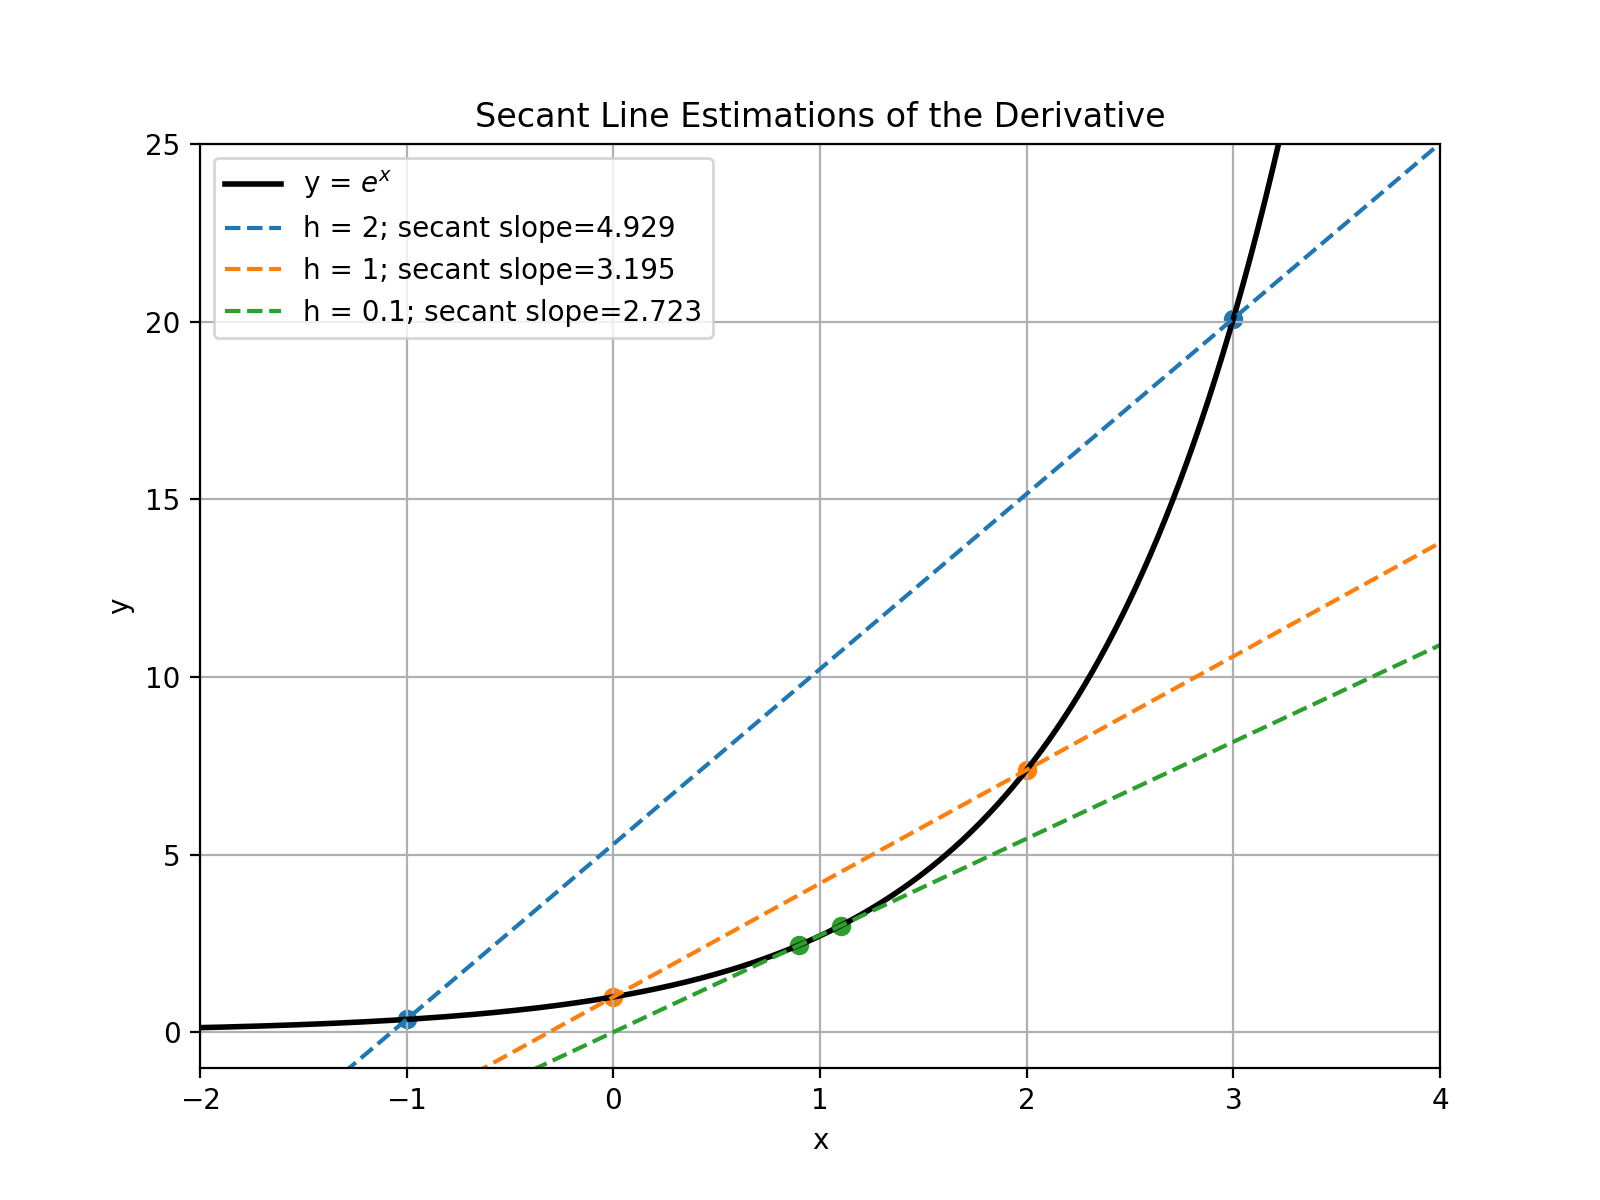
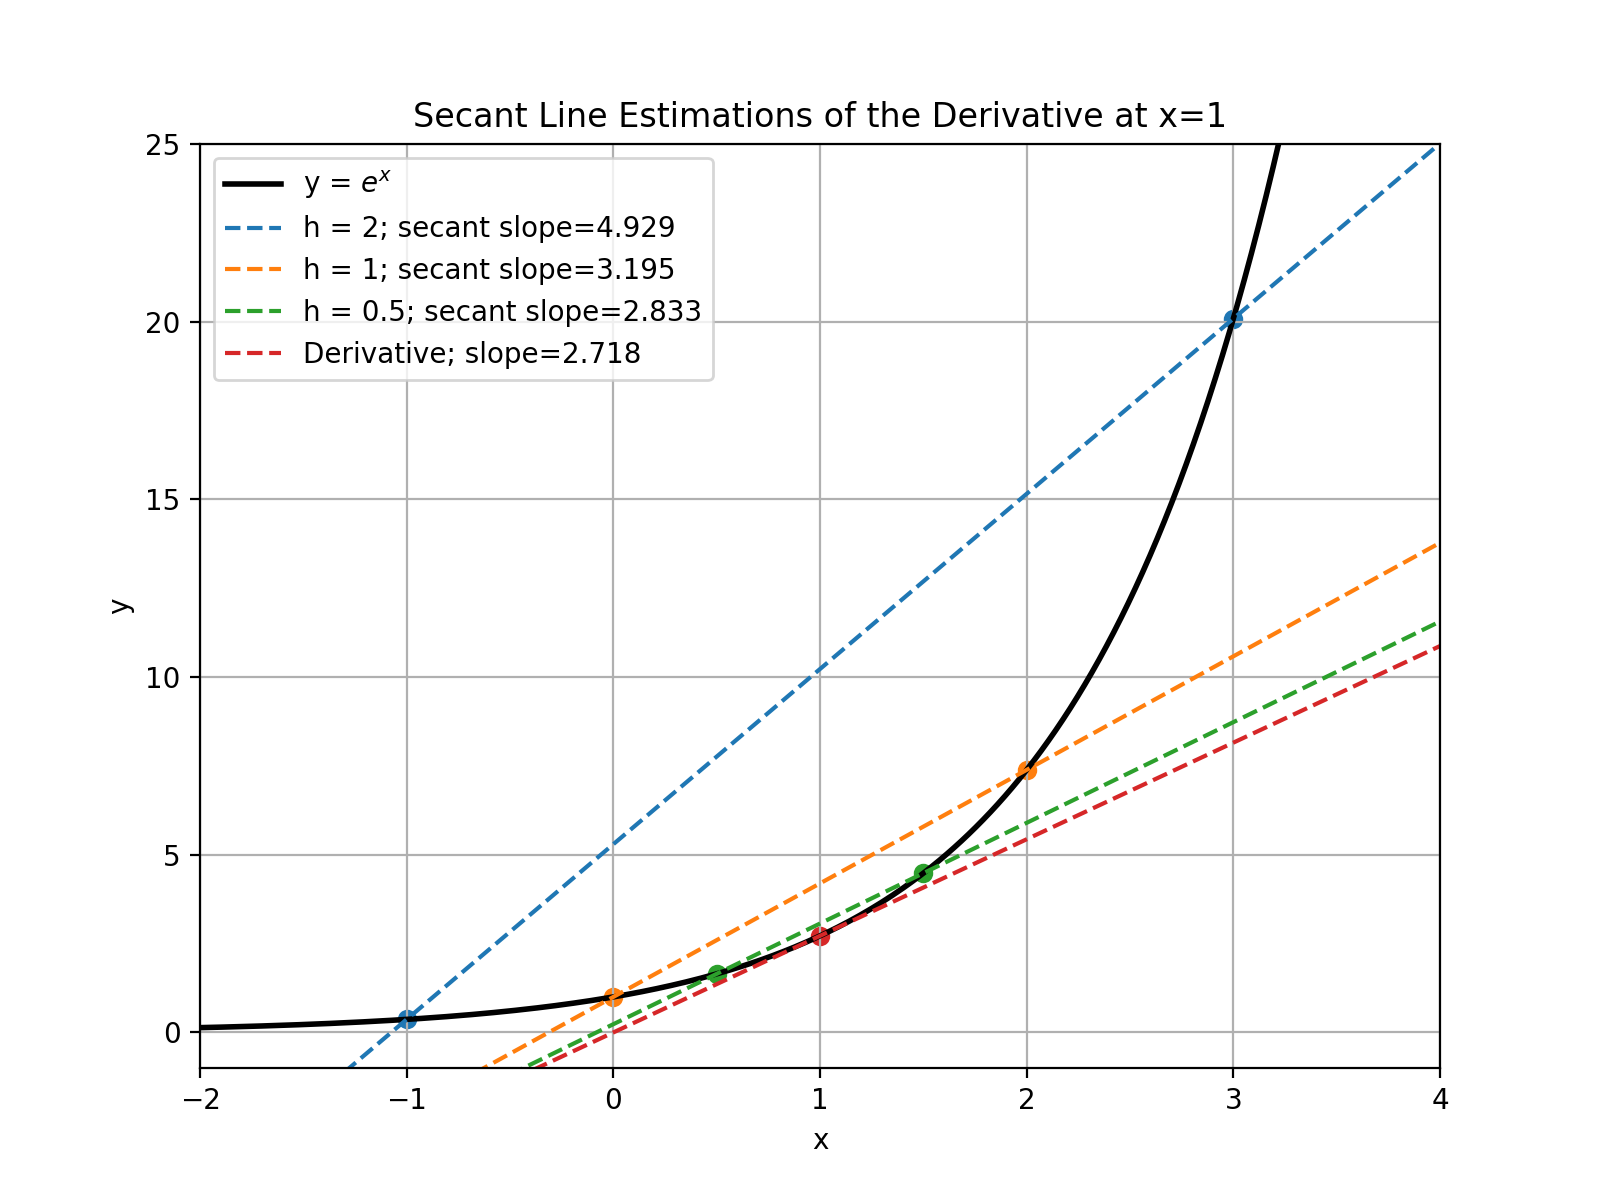
Finite difference, MC

diff --git a/projects/Biophysics-Book/Finite-Difference.html b/projects/Biophysics-Book/Finite-Difference.html
@@ -63,6 +63,9 @@
             <div id="Finite Difference">
                 <h1>Finite Difference Method</h1>
                 <h2>Introduction</h2>
+                In practice, many PDEs do not have closed-form solutions. Finite difference methods (FDM) are numerical techniques used to approximate the solutions of partial differential equations (PDEs). By discretizing the domain into a finite number of grid points, FDM translates continuous PDEs into a system of algebraic equations. 
+                
+
 
 
                 <h2>Basics of Finite Difference</h2>
@@ -72,8 +75,19 @@
 
                 </ol>
 
-                <h3>Basic Example</h3>
-                
+                <h3>Difference Quotients</h3>
+                <h4>Forward Difference</h4>
+                $$\frac{f(x+h)-f(x)}{h}$$
+
+                <h4>Backward Difference</h4>
+                $$\frac{f(x)-f(x-h)}{h}$$
+
+                <h4>Central Difference</h4>
+                $$\frac{f(x+h)-f(x-h)}{2h}$$
+
+
+                <h4>Taking A Secant Line Closer (Central Difference)</h4>
+                Smaller values of \(\Delta x\) make for better approximations, but stability conditions must be paid attention to.
                 <img src="Secant-Lines.png" alt="Monte Carlo Pi Calculation Animation" style="margin:auto; display: block;  width:clamp(400px,50vw, 800px)"/>
                 <button type="button" class="collapsible">Python Code</button>
                 <div class="content">
@@ -94,7 +108,7 @@ def extended_secant_line(x1, x2, X):
     return slope * X + y_intercept
 
 x = 1
-h_values = [2,1, 0.1]
+h_values = [2,1, 0.5]
 
 X = np.linspace(-3, 4, 400)
 Y = f(X)
@@ -105,10 +119,13 @@ colors = plt.colormaps['tab10'].colors
 for i,h in enumerate(h_values):
     x2 = x + h
     x1 = x - h
-    plt.plot(X, extended_secant_line(x1, x2, X), label=f"h = {h}; secant slope={slope_of_secant(x1, x2)}", linestyle="--",color=colors[i])
+    plt.plot(X, extended_secant_line(x1, x2, X), label=f"h = {h}; secant slope={slope_of_secant(x1, x2):.3f}", linestyle="--",color=colors[i])
     plt.scatter([x1, x2], [f(x1), f(x2)], color=colors[i])
 
-plt.title("Secant Line Estimations of the Derivative")
+plt.plot(X, np.exp(1)*X+f(1) - np.exp(1) * 1, label=f"Derivative; slope={np.exp(1):.3f}", linestyle="--",color=colors[3])  
+plt.scatter([1], [f(1)], color=colors[3])
+    
+plt.title("Secant Line Estimations of the Derivative at x=1")
 plt.xlabel('x')
 plt.ylabel('y')
 plt.legend()
@@ -116,9 +133,37 @@ plt.grid(True)
 plt.xlim(-2, 4)
 plt.ylim(-1, 25)
 plt.show()
-                     
+                             
 </pre>
                 </code></div>
+                
+                <h4>Second Deriatives</h4>
+                In order to get a second deriative of a function, one takes the derivative of the derivative. 
+                The same logic applies for finite differences - take the finite difference of finite differences. 
+                <br>
+                Let us consider taking spacial derivative via forward differences for simplicity.
+                
+                $$f'(x)\approx \frac{f(x+\Delta x)-f(x)}{\Delta x}$$
+
+                $$f''(x)\approx\frac{f'(x+h)-f'(x)}{h}$$
+
+                Combining the two formulae, we get:
+
+                $$f''(x)\approx\frac{\frac{f(x+2\Delta x)-f(x+\Delta x)}{\Delta x}-\frac{f(x+\Delta x)-f(x)}{\Delta x}}{\Delta x}$$
+                $$f''(x)\approx\frac{f(x+2\Delta x)-2f(x+\Delta x)+f(x)}{(\Delta x)^2}$$
+
+                One can also use the backward or central differences.
+
+                <br><br>
+                If one requires higher order derivatives, the same logic can be applied, iteratively taking finite differences. 
+                
+                <br><br>
+                It is also possible to use finite differences for mixed partials. The central difference formula for mixed partials is relatively simple:
+
+                $$\frac{\partial^2 f}{\partial x\partial y}=\frac{f(x+\Delta x,y+\Delta y)-f(x+\Delta x, y-\Delta y)-f(x-\Delta x, y+\Delta y)+f(x-\Delta x, y -\Delta y)}{4(\Delta x)(\Delta y)}$$
+
+                <h4>Computational Considerations</h4>
+                Mathematically, the formulas aren't that difficult. The issue is that it can be computationally expensive to compute all these function values. 
 
 
 

diff --git a/projects/Biophysics-Book/Monte-Carlo.html b/projects/Biophysics-Book/Monte-Carlo.html
@@ -98,7 +98,7 @@ from matplotlib.animation import FuncAnimation
 def inside_circle(x, y):
     return x**2 + y**2 <= 1
 
-num_samples = 1000
+num_samples = 5000
 np.random.seed(0)
 fig, ax = plt.subplots(figsize=(8, 8))
 x_inside, y_inside, x_outside, y_outside = [], [], [], []
@@ -106,15 +106,19 @@ x_inside, y_inside, x_outside, y_outside = [], [], [], []
 scatter_inside = ax.scatter(x_inside, y_inside, color='blue', s=1.5)
 scatter_outside = ax.scatter(x_outside, y_outside, color='red', s=1.5)
 title = ax.set_title('')
+samples_per_frame = 10
+
 
 def update(frame):
-    x, y = np.random.uniform(0, 1, 2)
-    if inside_circle(x, y):
-        x_inside.append(x)
-        y_inside.append(y)
-    else:
-        x_outside.append(x)
-        y_outside.append(y)
+    if frame < 1: return
+    for _ in range(samples_per_frame):
+        x, y = np.random.uniform(0, 1, 2)
+        if inside_circle(x, y):
+            x_inside.append(x)
+            y_inside.append(y)
+        else:
+            x_outside.append(x)
+            y_outside.append(y)
 
     scatter_inside.set_offsets(np.c_[x_inside, y_inside])
     scatter_outside.set_offsets(np.c_[x_outside, y_outside])
@@ -124,17 +128,17 @@ def update(frame):
 
     return scatter_inside, scatter_outside, title
 
-ani = FuncAnimation(fig, update, frames=num_samples,interval=50, blit=True)
+ani = FuncAnimation(fig, update, frames=num_samples//samples_per_frame,interval=100,repeat_delay=1500, blit=True)
 
 ax.set_xlim(0, 1)
 ax.set_ylim(0, 1)
 ax.grid(True)
 ax.set_aspect('equal', adjustable='box')
 
-ani.save('Monte-Carlo-Pi-Animation.gif', fps=30, 
+ani.save('Monte-Carlo-Pi-Animation.gif', fps=10, 
             #extra_args=['-vcodec', 'libx264']
             )
-                    
+                     
 </pre>
                 </code></div>
 
@@ -178,7 +182,7 @@ plt.ylabel('y')
 plt.grid(True)
 plt.gca().set_aspect('equal', adjustable='box')
 plt.show()
-                    
+                          
 </pre>
                 </code></div>
 
